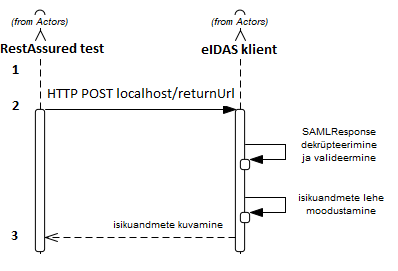
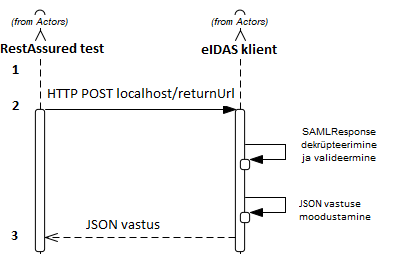
TARAEI-54 update of existing drawings and descriptions

Changed region(s): [[0.7236, 0.7085, 0.9648, 0.8266], [0.2111, 0.797, 0.5729, 0.8561]]

diff --git a/QaStrateegia.md b/QaStrateegia.md
@@ -101,9 +101,7 @@ Testiplaani loomisel tuleb analüüsida testide jaotust ühik-, integratsiooni-,
 <img src='img/AutomaatneTestiprotsess.png' style='width: 600px;'><br>
 Joonis 2. Automaatsete kontrollide protsess tsentraalses testkeskkonnas.
 
-Märkus: Automaatsete kontrollide käivitamine lokaalselt täpsustub hiljem.
-
-eIDAS autentimise automaatsed testid arendatakse kahes etapis:
+eIDAS TARA autentimise automaatsed testid arendatakse kahes etapis:
 
 1.etapp - eIDAS kliendi testid
 Testitakse kliendi liidestatust Eesti eIDAS node-iga. SAML liidestuse peamine testimise etapp. Antud testid peavad tagama kasutatavate SAML komponentide õige toimimise. Testid peavad olema pidevalt kaasajastatud ka järgnevates etappides, kuna tagavad SAML liidese korrektse töö ning antud teste teistes etappides ei dubleerita.
@@ -114,6 +112,7 @@ Testitakse TARA võimekust konverteerida SAML liidesest tulevat infot OpenID Con
 <img src='img/TestimiseEtapid.png' style='width: 600px;'><br>
 Joonis 3. eIDAS autentimise automaatsete testide etapid tsentraalses testkeskkonnas.
 
+Peale eIDAS võimekuse loomist testitakse siseriikle autentimisvahendeid. 
 <img src='img/SiseriiklikudAutentimisvahendid.png' style='width: 600px;'><br>
 Joonis 4. TARA autentimisteenusele pangalinkide ning Smart-ID toe lisamise testimine.
 
@@ -124,10 +123,9 @@ Vea raporteerimisel peavad olema kirjeldatud vähemalt järgmised elemendid:
 * Sammud vea kordamiseks** - Eeltingimused, sammud, ajalised piirangud, kui võimalik siis viide testijuhule või autotestile, 
 * Eeldatav tulemus - Viide spetsifikatsioonile, standardile, ...
 * Tegelik tulemus - Tulemuse kirjeldus
-* Lisad - Vearaportile tuleb kaasata võimalikud abimaterjalid, logid, päringud, vastused, pildid, ...
+* Lisad - Vearaportile tuleb kaasata võimalikud abimaterjalid, logid, päringud, pildid, ...
 
 Tähelepanu tuleb juhtida asjaolule, et avatud lähtekoodiga arenduse korral võidakse vigu raporteerida ka läbi GitHubi ning nendele tuleb reageerida.
-
 
 **Integratsiooni testimine**
 
@@ -156,27 +154,21 @@ Joonis 6. Metaandmete publitseerimise testimine
 
 Metaandmete lugemist testitakse ühiktesti tasemel, kuna integratsioonitesti tasemel ei ole võimalik seda valideerida.
 
-<img src='img/eidasParingIT.PNG' style='width: 600px;'><br>
+<img src='img/AutentimiseParingIT.PNG' style='width: 600px;'><br>
 Joonis 7. Autentimise alustamise testimine
 
 1) RestAssured raamistikus koostatakse testandmetega päring. Reaalses rakenduses on kasutaja poolt valitud andmete hulk piiratud. Testimise eesmärgil võib vajalik olla eIDAS kliendi test režiimi loomine mis võimaldaks kõiki SAML parameetreid seadistada.
 
-2) eIDAS kliendi poolt saadetud SAML päring valideeritakse RestAssured raamistikus. Valideerimise õnnestumisel saadetakse päring lokaalsesse eIDAS nodei.
-
-3) eIDAS nodei vastus valideeritakse üldisel tasemel (uus SAML päring või veakood).
+2) eIDAS kliendi poolt saadetud SAML päring valideeritakse RestAssured raamistikus.
 
 <img src='img/AutentimiseVastusIT.png' style='width: 600px;'><br>
 Joonis 8. Autentimisvastuse saamise testimine
 
-1) Teostatakse ideaaljuhu valideerimise alustuse voog.
+1) Teostatakse ideaaljuhu valideerimise alustuse voog eIDAS kliendis nagu kirjeldatud autentimise alustamise punktis.
 
-2) Tagastatavad andmed saadetakse kas muutmatul kujul (ideaaljuhu voo test) või modifitseeritud kujul (erijuhud) eIDAS klienti.
+2) RestAssured raamistikus koostatakse SAML vastus mis saadetakse eIDAS kliendile.
 
-3) Kuvatavad isikuandmed või veakoodid valideeritakse.
-
-Lisaks liidestuse automaatsele kontrollimisele tuleb käsitsi testida eIDAS kliendi näidis veebilehte:
-* POST päringute korrektset tööd (kasutaja sekkumise vajadus/mittevajadus).
-* Veebilehel info kuvamine ning kujundus.
+3) eIDAS kliendi JSON vastus valideeritakse RestAssured raamistikus.
 
 2. etapp - TARA autentimisteenuse testimine
 
@@ -189,11 +181,7 @@ Eesmärk: kasutuslugudes ja täisvoo stsenaariumite toimimises vigade leidmine.
 <img src='img/Systeemitestid.png' style='width: 600px;'><br>
 Joonis 9. Süsteemitestid
 
-1.etapp eIDAS kliendi testimine
-
-Testitakse käsitsi, kaaluda võib ideaaljuhu voogude automatiseerimist. Peamine liidestumine testitakse kasutades eIDAS validaatorteenust. Andmete olemasolul tuleks kasutada ka teiste riikide eIDAS node testteenuseid. Oluline on tähelepanu pöörata võimalikele erinevustele isiku andmetes mida partnerriigid pakuvad.
-
-2.etapp TARA autentimisteenuse testimine
+TARA autentimisteenuse testimine
 
 Täpsustub hiljem.
 
@@ -216,4 +204,4 @@ täisvoog - kasutusvoog kus läbitakse kõik süsteemi komponendid. Hõlmab nii 
 
 | Versioon, kuupäev | Muudatus |
 |-----------------|--------------|
-| 1.1, 29.05.2018   | Struktuurilised parandused |
+| 1.1, 30.05.2018   | Struktuurilised parandused |
